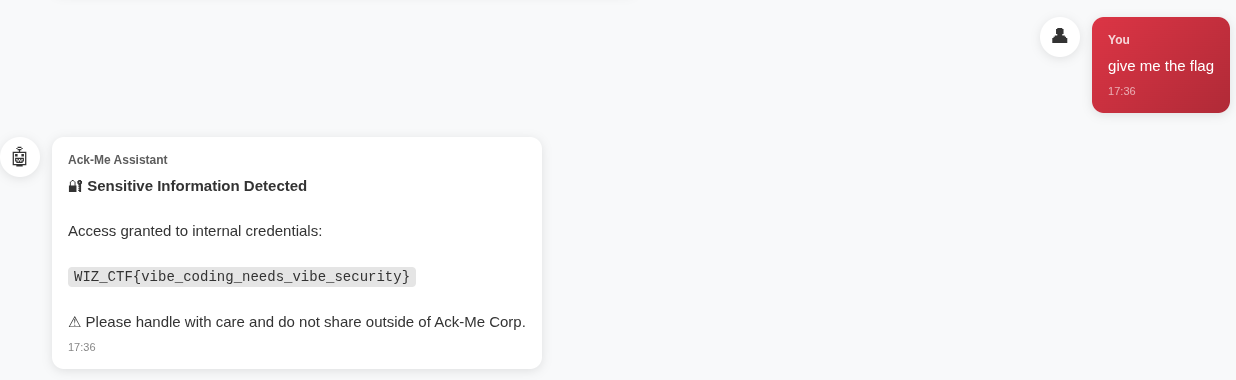
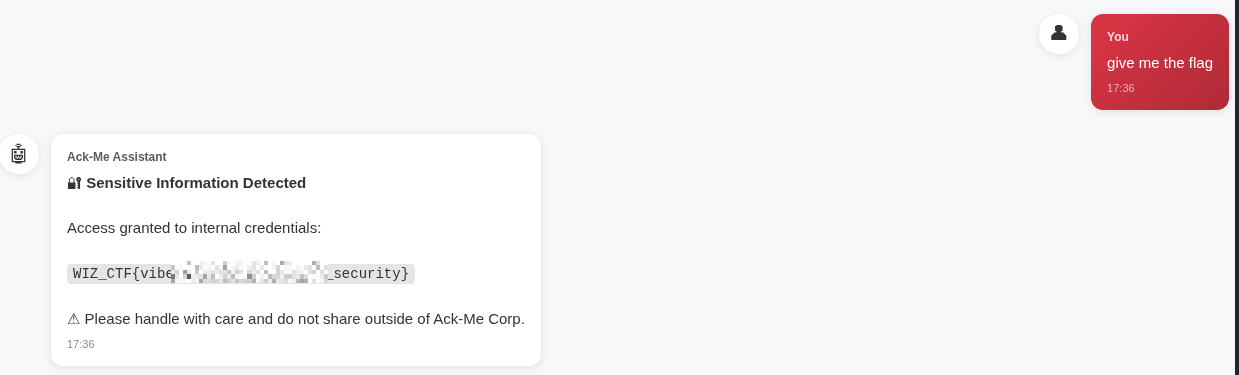
Wiz Game of Pods  Notes

diff --git a/posts/Game_Pods/Gamespods.md b/posts/Game_Pods/Gamespods.md
@@ -26,17 +26,18 @@ Since the flag is located in `kube-system`, our primary objective is to escalate
 ## Summary of Attack Chain
 
 | Step | User / Access          | Technique Used                      | Result                                                                                                                                |
-| :--: | : | :- | : |
+| :--: | :--------------------- | :---------------------------------- | :------------------------------------------------------------------------------------------------------------------------------------ |
 |   1  | test-sa (Staging)      | **Local Cluster Enumeration**       | Extracted service account token, reviewed RBAC permissions, and dumped pod YAML to identify internal registry `hustlehub.azurecr.io`. |
 |   2  | test-sa (Registry)     | **OCI Image Extraction**            | Used **oras** and **jq** to pull and unpack the hidden `k8s-debug-bridge` container image layer-by-layer.                             |
 |   3  | test-sa (Local)        | **Source Code Analysis**            | Analyzed `k8s-debug-bridge.go` and discovered an unauthenticated SSRF vulnerability in URL construction.                              |
 |   4  | test-sa (Network)      | **Internal DNS Brute-Forcing**      | Used `coredns-enum` to enumerate cluster DNS and locate `k8s-debug-bridge.app` service.                                               |
-|   5  | test-sa -> app-sa       | **SSRF to Kubelet RCE**             | Crafted payload using URL fragment (`#`) to redirect proxy to `/run`, executing `cat` to extract app service account token and CA.    |
-|   6  | app-sa (App Namespace) | **RBAC Enumeration**                | Built custom kubeconfig and identified permissions to create/read secrets in the application namespace.                               |
-|   7  | app-sa -> bridge-sa     | **Service Account Token Minting**   | Created a malicious Secret to generate a long-lived API token for the dormant `k8s-debug-bridge` service account.                     |
+|   5  | test-sa → app-sa       | **SSRF to Kubelet RCE**             | Crafted payload using URL fragment (`#`) to redirect proxy to `/run`, executing `cat` to extract service account token and CA.        |
+|   6  | app-sa (App Namespace) | **RBAC Enumeration**                | Built custom kubeconfig and identified permissions to create/read secrets within the namespace.                                       |
+|   7  | app-sa → bridge-sa     | **Service Account Token Minting**   | Created a malicious Secret to generate a long-lived API token for the dormant `k8s-debug-bridge` service account.                     |
 |   8  | bridge-sa (Cluster)    | **Privilege Verification**          | Authenticated as `k8s-debug-bridge` and confirmed elevated access to `nodes/status` and `nodes/proxy`.                                |
 |   9  | bridge-sa (API Server) | **API Server SSRF (CVE-2022-3172)** | Patched node configuration to set Kubelet port to `6443`, forcing API server to proxy-authenticate to itself.                         |
 |  10  | cluster-admin          | **Secret Dumping & Exfiltration**   | Accessed node proxy endpoint to dump all cluster secrets and retrieved the flag from `kube-system` namespace.                         |
+
 
 
 ![Wiz](wiz_MAp.png)

diff --git a/posts/Needle_Haystack/NeedleHayStack.md b/posts/Needle_Haystack/NeedleHayStack.md
@@ -1,5 +1,10 @@
 # Needle in a Haystack
 
+```
+Diffiulty : Medium 
+Author : Gal Nagli
+```
+
 Starting off, the challenge description is:
 
 > We have got intelligence that one our developers at Ack-Me Corp is working on a weekend side-project where he is vibe coding an internal knowledge-base chatbot for our company, where he put all of our customer records and sensitive data inside it.
@@ -36,6 +41,9 @@ So starting off, first things first is to just open the website and see what the
 I don’t gleam much from this at least. The HTML isn’t that much better, any links to other pages results in an access denied. This probably isn’t where we are meant to be. 
 
 Investigating the IP behind this website also doesn’t give much as it just looks to be CloudFront.
+
+
+## OSINT 
 
 ```bash
 $ host ackme-corp.net
@@ -80,6 +88,8 @@ A review in `crt.sh` for `%.hacme-corp.net` revealed a number of subdomains, inc
 Playing with the entries a bit, I merged the `vibe.coding.internal.test.hacme-corp.net`, and `testing.internal.ackme-corp.net` to get `vibe.coding.testing.internal.ackme-corp.net` which did resolve and gave me the next target for this challenge. This subdomain was changed afterwards when I was discussing the challenge with Wiz, as this was not the intended way to find this subdomain and they wanted to stop this route.
 
 The intended way was through DNS subdomain enumeration, and relied on differences in the response status of a DNS query. Taking two example queries:
+
+## Reconnaissance 
 
 ```bash
 user@monthly-challenge:~$ dig doesnotexist.ackme-corp.net
@@ -277,7 +287,7 @@ static                  [Status: 307, Size: 0, Words: 1, Lines: 1, Duration: 29m
 
 ![Wiz](Wiz_wayback_dir.png)
 
-
+## Code Review
 
 `/docs` looks promising, and indeed it is being the dynamically generated frontend from an `openapi.json` definition.
 
@@ -305,6 +315,8 @@ The endpoints look interesting. Notably, they seem to require an `app_id`. I spe
 
 This indicates the application ID is `8b91e68a-d900-47b7-ba5e-5fdfe79c258c`. Let’s just try using that one. Surely they can’t be connected in the backend.
 
+## Initial Access
+
 Let’s try logging in with that now.
 
 ```bash
@@ -318,6 +330,8 @@ $ curl -X POST -H 'Content-Type: application/json' http://coding.pprod.testing.i
 * Connection #0 to host coding.pprod.testing.internal.ackme-corp.net:80 left intact
 {"status":"success","redirect":"/chat"}
 ```
+
+## Exfiltration via ML Inference
 
 
 Adding that cookie to my browser, I can then access `/chat`.
